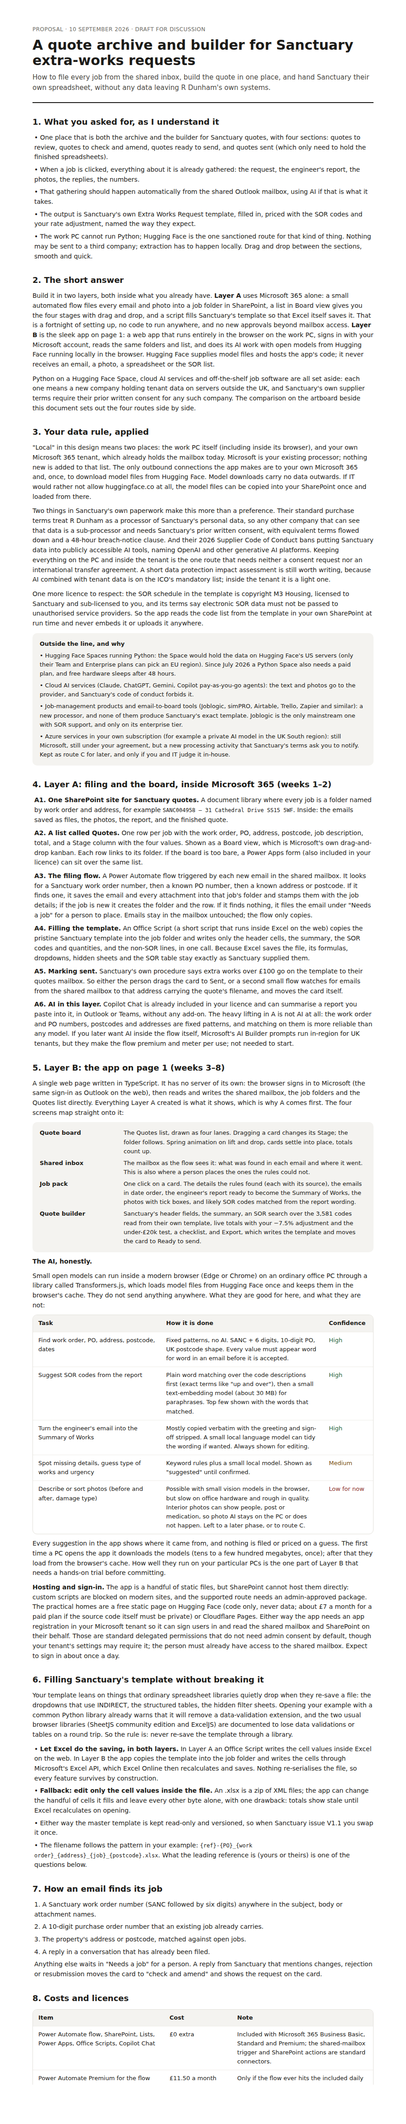
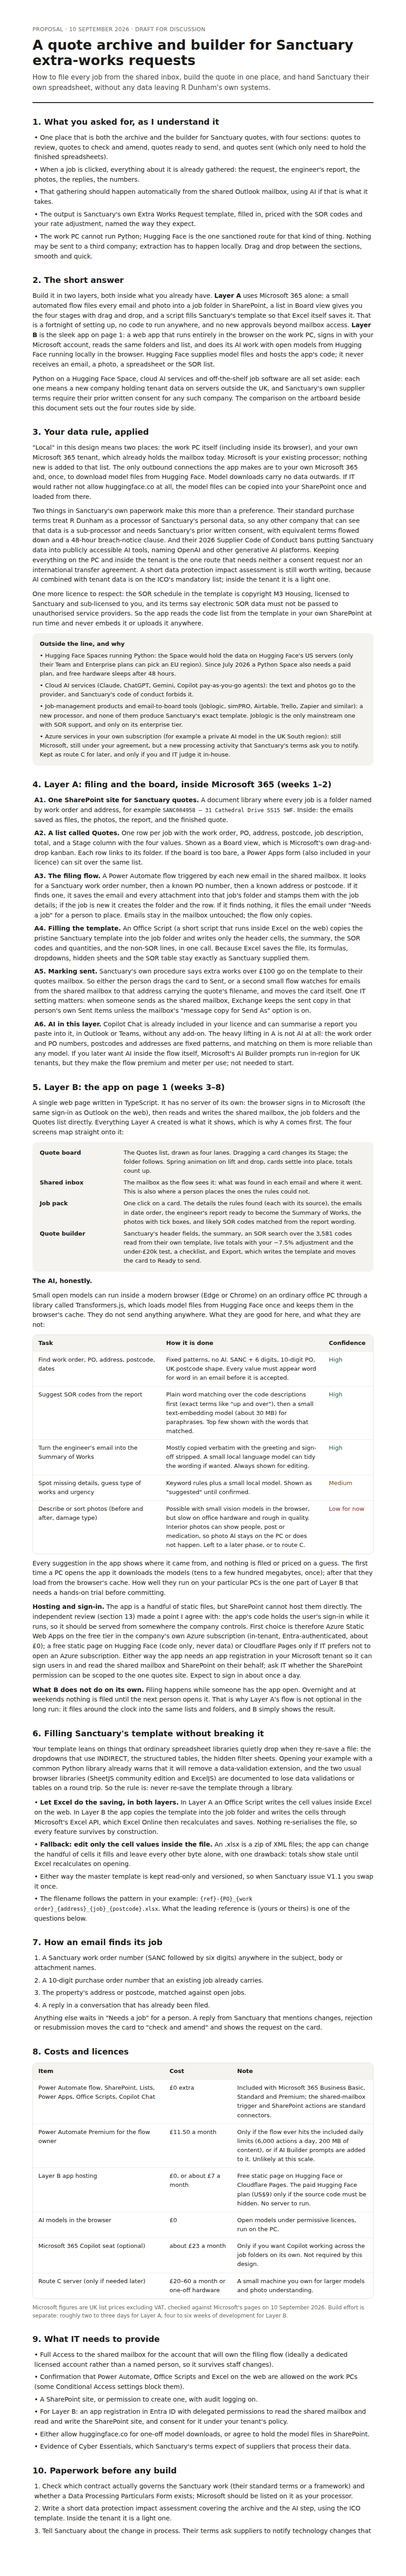
Fold the independent review into the design and docs
Read the sheet's own totals back after export and hold the card if they
differ from the app's; prefer hosting in the company's own Azure
subscription over a third-party static host; note that the app files only
while open and that the Layer A flow covers unattended hours; Send As copy
setting for sent detection; review summary in the proposal.

Claude-Session: https://claude.ai/code/session_01JC8NhicPqWfpPmi8umYne4

Changed region(s): [[0.0622, 0.0, 0.9022, 0.994]]

diff --git a/docs/design/Proposal.dc.html b/docs/design/Proposal.dc.html
@@ -13,7 +13,7 @@
     a { color: #2f5d8a; } a:hover { color: #244a70; }
   </style>
 </helmet>
-<div style="width: 900px; min-height: 4700px; background: #ffffff; padding: 56px 72px 72px 72px; box-sizing: border-box; display: flex; flex-direction: column; gap: 28px; font-size: 14px; line-height: 1.55; color: #1c1b18;">
+<div style="width: 900px; min-height: 5700px; background: #ffffff; padding: 56px 72px 72px 72px; box-sizing: border-box; display: flex; flex-direction: column; gap: 28px; font-size: 14px; line-height: 1.55; color: #1c1b18;">
 
   <div style="display: flex; flex-direction: column; gap: 8px; padding-bottom: 20px; border-bottom: 2px solid #1c1b18;">
     <span style="font-size: 12px; color: #6b6963; letter-spacing: 0.04em; text-transform: uppercase;">Proposal · 10 September 2026 · draft for discussion</span>
@@ -63,7 +63,7 @@
       <span><span style="font-weight: 600;">A2. A list called Quotes.</span> One row per job with the work order, PO, address, postcode, job description, total, and a Stage column with the four values. Shown as a Board view, which is Microsoft's own drag-and-drop kanban. Each row links to its folder. If the board is too bare, a Power Apps form (also included in your licence) can sit over the same list.</span>
       <span><span style="font-weight: 600;">A3. The filing flow.</span> A Power Automate flow triggered by each new email in the shared mailbox. It looks for a Sanctuary work order number, then a known PO number, then a known address or postcode. If it finds one, it saves the email and every attachment into that job's folder and stamps them with the job details; if the job is new it creates the folder and the row. If it finds nothing, it files the email under "Needs a job" for a person to place. Emails stay in the mailbox untouched; the flow only copies.</span>
       <span><span style="font-weight: 600;">A4. Filling the template.</span> An Office Script (a short script that runs inside Excel on the web) copies the pristine Sanctuary template into the job folder and writes only the header cells, the summary, the SOR codes and quantities, and the non-SOR lines, in one call. Because Excel saves the file, its formulas, dropdowns, hidden sheets and the SOR table stay exactly as Sanctuary supplied them.</span>
-      <span><span style="font-weight: 600;">A5. Marking sent.</span> Sanctuary's own procedure says extra works over £100 go on the template to their quotes mailbox. So either the person drags the card to Sent, or a second small flow watches for emails from the shared mailbox to that address carrying the quote's filename, and moves the card itself.</span>
+      <span><span style="font-weight: 600;">A5. Marking sent.</span> Sanctuary's own procedure says extra works over £100 go on the template to their quotes mailbox. So either the person drags the card to Sent, or a second small flow watches for emails from the shared mailbox to that address carrying the quote's filename, and moves the card itself. One IT setting matters: when someone sends as the shared mailbox, Exchange keeps the sent copy in that person's own Sent Items unless the mailbox's "message copy for Send As" option is on.</span>
       <span><span style="font-weight: 600;">A6. AI in this layer.</span> Copilot Chat is already included in your licence and can summarise a report you paste into it, in Outlook or Teams, without any add-on. The heavy lifting in A is not AI at all: the work order and PO numbers, postcodes and addresses are fixed patterns, and matching on them is more reliable than any model. If you later want AI inside the flow itself, Microsoft's AI Builder prompts run in-region for UK tenants, but they make the flow premium and meter per use; not needed to start.</span>
     </div>
   </div>
@@ -89,7 +89,8 @@
       <span style="padding: 8px 12px; border-top: 1px solid #efede8;">Describe or sort photos (before and after, damage type)</span><span style="padding: 8px 12px; border-top: 1px solid #efede8;">Possible with small vision models in the browser, but slow on office hardware and rough in quality. Interior photos can show people, post or medication, so photo AI stays on the PC or does not happen. Left to a later phase, or to route C.</span><span style="padding: 8px 12px; border-top: 1px solid #efede8; color: #8a2f2a; font-weight: 500;">Low for now</span>
     </div>
     <span>Every suggestion in the app shows where it came from, and nothing is filed or priced on a guess. The first time a PC opens the app it downloads the models (tens to a few hundred megabytes, once); after that they load from the browser's cache. How well they run on your particular PCs is the one part of Layer B that needs a hands-on trial before committing.</span>
-    <span><span style="font-weight: 600;">Hosting and sign-in.</span> The app is a handful of static files, but SharePoint cannot host them directly: custom scripts are blocked on modern sites, and the supported route needs an admin-approved package. The practical homes are a free static page on Hugging Face (code only, never data; about £7 a month for a paid plan if the source code itself must be private) or Cloudflare Pages. Either way the app needs an app registration in your Microsoft tenant so it can sign users in and read the shared mailbox and SharePoint on their behalf. Those are standard delegated permissions that do not need admin consent by default, though your tenant's settings may require it; the person must already have access to the shared mailbox. Expect to sign in about once a day.</span>
+    <span><span style="font-weight: 600;">Hosting and sign-in.</span> The app is a handful of static files, but SharePoint cannot host them directly. The independent review (section 13) made a point I agree with: the app's code holds the user's sign-in while it runs, so it should be served from somewhere the company controls. First choice is therefore Azure Static Web Apps on the free tier in the company's own Azure subscription (in-tenant, Entra-authenticated, about £0); a free static page on Hugging Face (code only, never data) or Cloudflare Pages only if IT prefers not to open an Azure subscription. Either way the app needs an app registration in your Microsoft tenant so it can sign users in and read the shared mailbox and SharePoint on their behalf; ask IT whether the SharePoint permission can be scoped to the one quotes site. Expect to sign in about once a day.</span>
+    <span><span style="font-weight: 600;">What B does not do on its own.</span> Filing happens while someone has the app open. Overnight and at weekends nothing is filed until the next person opens it. That is why Layer A's flow is not optional in the long run: it files around the clock into the same lists and folders, and B simply shows the result.</span>
   </div>
 
   <!-- 6 -->
@@ -163,7 +164,7 @@
       <span>1. Is Layer A alone enough for now, with B to follow, or should both be planned together from the start?</span>
       <span>2. Does the automatic filing copy every email in the shared mailbox, or only ones that look like Sanctuary jobs?</span>
       <span>3. Should "Sent" be set by dragging the card, or detected from emails to Sanctuary's quotes mailbox?</span>
-      <span>4. Where should the app's code live: a free public Hugging Face page (code only), a private one on the paid plan, or Cloudflare Pages?</span>
+      <span>4. Where should the app's code live: the company's own Azure subscription (recommended by the review), a free public Hugging Face page (code only), or Cloudflare Pages? Does the company have, or want, an Azure subscription?</span>
       <span>5. Do services in your own Azure subscription count as in-house? This only matters if route C is ever wanted.</span>
       <span>6. Who checks a quote before it goes out, and should the app insist on a second person?</span>
     </div>
@@ -182,15 +183,29 @@
     </div>
   </div>
 
-  <!-- 13 -->
+  <!-- 13 review -->
+  <div style="display: flex; flex-direction: column; gap: 10px;">
+    <span style="font-size: 18px; font-weight: 600;">13. Independent review of the routes</span>
+    <span>Three reviewers with different briefs (an IT and data-protection lead, the person who would use it daily, and a solutions architect) scored the four routes against the no-third-party rule. All three ranked the Microsoft-only route first (57 to 60 out of 70) and the browser-only route lowest (43 to 44), with the own-server hybrid and a Hugging Face-hosted variant in between. Their reasons, and what changed because of them:</span>
+    <div style="display: flex; flex-direction: column; gap: 6px; padding-left: 4px;">
+      <span>• <span style="font-weight: 600;">No background process in the browser app.</span> Emails are only filed while someone has it open. Accepted: Layer A's flow is the 24-hour filer and the app shows its results; both write to the same lists.</span>
+      <span>• <span style="font-weight: 600;">Code served from a third party while it holds the user's sign-in.</span> Accepted: host the app in the company's own Azure subscription first, keep Hugging Face as the fallback, scope the SharePoint permission to the one site.</span>
+      <span>• <span style="font-weight: 600;">Never send a broken spreadsheet.</span> After the template is filled, read the sheet's own totals back and refuse "ready to send" if they disagree with the app's. Built in.</span>
+      <span>• <span style="font-weight: 600;">Reports that arrive before the client's work order.</span> A provisional job keyed on the address, merged when the SANC email lands. Not built yet; on the list.</span>
+      <span>• <span style="font-weight: 600;">The SOR list's licence.</span> Confirm with Sanctuary or M3 before copying the codes into any list outside the template. The app reads them from the template at run time.</span>
+    </div>
+    <span>Of the fifteen factual claims the review set out to verify, four were checked before the account's usage limit stopped it: the shared-mailbox trigger is a standard connector (confirmed); filling the template inside Excel keeps its features (confirmed, with the note that Excel does the preserving); the priority flags are ordinary true/false cells (confirmed); and Office Scripts on a Business Basic licence should be checked with IT rather than assumed.</span>
+  </div>
+
+  <!-- 14 -->
   <div style="display: flex; flex-direction: column; gap: 10px; padding: 16px 18px; border-radius: 10px; border: 1px solid #e3c98f; background: #fdf3e0;">
-    <span style="font-size: 15px; font-weight: 600;">What was checked, and what was not</span>
+    <span style="font-size: 15px; font-weight: 600;">14. What was checked, and what was not</span>
     <span style="font-size: 13px;">Checked against official sources on 10 September 2026: the Microsoft 365 facts (connectors, licence limits, Office Scripts, shared-mailbox permissions, UK prices); Hugging Face plans, regions and hosting; the browser-app route (sign-in, mailbox and file access, the Excel API, which libraries break the template); Sanctuary's published purchase terms, supplier code of conduct and extra-works procedure, the M3 SOR licence terms, and ICO guidance on transfers and AI; and the off-the-shelf tools named in section 3. Not yet checked hands-on: how well small models run in the browser on your particular PCs, and the practicalities of route C. The ranking of the four routes is my judgement; the independent review I intended to run on it was cut short by the account's usage limit.</span>
   </div>
 
   <!-- 14 -->
   <div style="display: flex; flex-direction: column; gap: 10px;">
-    <span style="font-size: 18px; font-weight: 600;">13. Suggested next step</span>
+    <span style="font-size: 18px; font-weight: 600;">15. Suggested next step</span>
     <span>If the screens on page 1 match the vision, the natural next piece is a clickable prototype of the board and job pack, running on made-up data, so the drag and drop and the flow between screens can be felt before anything is connected to the mailbox. In parallel, IT can grant the mailbox access and the Layer A flow can be set up against the real inbox, which is useful on its own within a fortnight.</span>
   </div>
 

diff --git a/src/providers/graph.ts b/src/providers/graph.ts
@@ -9,6 +9,7 @@
 
 import { PublicClientApplication, InteractionRequiredAuthError, type AccountInfo } from '@azure/msal-browser';
 import { draftJobFromEmail } from '../lib/match';
+import { priceQuote } from '../lib/pricing';
 import { buildCellMap, buildQuoteFileName, shortRef, type CellWrite } from '../lib/template';
 import type { Email, Job, MatchRule, Photo, Quote, RateAdjustment, SorCode, Stage, User } from '../lib/types';
 import { applyEmailToJob, autoFile } from './autofile';
@@ -16,6 +17,8 @@ import type { AppConfig } from './config';
 import type { ChangeEvent, DataProvider, ExportResult, LiveStatus, ProviderSettings } from './types';
 
 const GRAPH = 'https://graph.microsoft.com/v1.0';
+// Delegated scopes. Sites.ReadWrite.All is broad; ask IT whether the tenant can grant the app
+// Sites.Selected for just the quotes site instead (then list/drive calls stay the same).
 const SCOPES = ['User.Read', 'Mail.Read.Shared', 'Sites.ReadWrite.All', 'Files.ReadWrite.All'];
 
 interface ListItem<F> {
@@ -562,7 +565,23 @@ export class GraphProvider implements DataProvider {
       const failed = r.responses.filter((x) => x.status >= 400);
       if (failed.length) throw new Error(`Some cells could not be written: ${JSON.stringify(failed.slice(0, 3))}`);
     }
+    // 3. Read the sheet's own totals back and refuse to call it ready if they disagree with ours.
+    const readBack = async (sheet: string, address: string) => {
+      const r = await this.graph<{ values: (number | string | null)[][] }>(
+        `/drives/${this.cfg.driveId}/items/${item.id}/workbook/worksheets('${sheet}')/range(address='${address}')?$select=values`,
+        {},
+        { 'workbook-session-id': sid },
+      );
+      return Number(r.values?.[0]?.[0] ?? NaN);
+    };
+    const sheetTotals = { main: await readBack('Main Sheet', 'AV65'), continuation: await readBack('Continuation Sheet', 'AV55'), nonSor: await readBack('Non SOR Works', 'AV55'), total: await readBack('Main Sheet', 'BN15') };
     await this.graph(`/drives/${this.cfg.driveId}/items/${item.id}/workbook/closeSession`, { method: 'POST' }, { 'workbook-session-id': sid });
+    const ours = priceQuote(q.sorLines, q.nonSorLines, new Map((await this.getSorCodes()).map((c) => [c.code, c])), await this.getRates(), q.contractor);
+    const differs = Math.abs(sheetTotals.total - ours.total) > 0.011;
+    if (differs) {
+      await this.updateJob({ ...job, quoteFileName: fileName, flag: { kind: 'internal-check', text: `Sheet total ${sheetTotals.total.toFixed(2)} differs from the app's ${ours.total.toFixed(2)}. Check the workbook before sending.` } });
+      return { fileName, webUrl: item.webUrl, writes, sheetTotals, mismatch: true };
+    }
 
     await this.updateJob({
       ...job,
@@ -571,7 +590,7 @@ export class GraphProvider implements DataProvider {
       stage: job.stage === 'review' || job.stage === 'amend' ? 'ready' : job.stage,
       flag: { kind: 'checked', text: 'Exported, awaiting a second check' },
     });
-    return { fileName, webUrl: item.webUrl, writes };
+    return { fileName, webUrl: item.webUrl, writes, sheetTotals, mismatch: false };
   }
 
   /** The SOR list, read from the client's own template inside the tenant. Never stored outside it. */

diff --git a/src/ui/Setup.tsx b/src/ui/Setup.tsx
@@ -60,6 +60,7 @@ export function Setup({ provider, jobs, emails, sor, rates, onReset }: Props) {
                 <li>The board is a SharePoint list. Every colleague sees the same list; a drag on one screen shows on the others within seconds.</li>
                 <li>The SOR code list and rate table are read from the client's template in that library, never copied out.</li>
                 <li>Matching, searching and pricing run in this browser. No AI service, no third-party server, nothing sent outside your tenant.</li>
+                <li>Filing happens while someone has the app open. For overnight and weekend filing, the companion Power Automate flow (see docs) writes to the same lists and folders.</li>
               </ul>
             </div>
           </div>
@@ -67,7 +68,7 @@ export function Setup({ provider, jobs, emails, sor, rates, onReset }: Props) {
             <div className="panel">
               <h3>Connecting to Microsoft 365</h3>
               <ol style={{ margin: 0, paddingLeft: 18, fontSize: 13, color: 'var(--text-2)', lineHeight: 1.6 }}>
-                <li>IT registers the app in Entra ID (single tenant, single-page app, redirect to where this page is hosted).</li>
+                <li>IT registers the app in Entra ID (single tenant, single-page app, redirect to where this page is hosted). Host it inside your own Azure subscription (Static Web Apps) where possible, so the code that holds your sign-in never comes from a third party.</li>
                 <li>A SharePoint site with a Quotes list, an Inbox filing list, and a library holding job folders and the pristine template.</li>
                 <li>Full Access to the shared mailbox for the people who will use the app.</li>
                 <li>A <span className="mono">config.json</span> next to the app with the ids above.</li>

diff --git a/src/ui/QuoteBuilder.tsx b/src/ui/QuoteBuilder.tsx
@@ -302,7 +302,16 @@ export function QuoteBuilder({ job, sor, rates, settings, mode, onBack, onSave, 
                 <Icon.sheet /> Open in Excel
               </a>
             )}
-            {mode === 'demo' && <div className="note">Demo mode has no template to write into. In Microsoft 365 mode these {result.writes.length} cells are written into a fresh copy of the client's template in the job folder.</div>}
+            {mode === 'demo' && <div className="note">Demo mode has no template to write into. In Microsoft 365 mode these {result.writes.length} cells are written into a fresh copy of the client's template in the job folder, and the sheet's own totals are read back and compared with the app's before the card moves on.</div>}
+            {result.sheetTotals && (
+              <div className={`note ${result.mismatch ? 'danger' : ''}`}>
+                {result.mismatch ? <Icon.info size={14} /> : <Icon.check size={14} />}
+                <span>
+                  The saved sheet says {gbp(result.sheetTotals.total)} (main {gbp(result.sheetTotals.main)}, continuation {gbp(result.sheetTotals.continuation)}, non-SOR {gbp(result.sheetTotals.nonSor)}); the app says {gbp(totals.total)}.
+                  {result.mismatch ? ' They differ, so the card has not moved to Ready to send. Open the workbook and check.' : ' They agree.'}
+                </span>
+              </div>
+            )}
             <div className="kv">
               {result.writes.map((w, i) => (
                 <div key={i} style={{ display: 'contents' }}>

diff --git a/src/providers/types.ts b/src/providers/types.ts
@@ -13,6 +13,9 @@ export interface ExportResult {
   /** Web link to the saved workbook in the job folder (Microsoft 365 mode). */
   webUrl?: string;
   writes: CellWrite[];
+  /** Totals read back from the saved workbook (Microsoft 365 mode), so the sheet's own maths is checked against the app's. */
+  sheetTotals?: { main: number; continuation: number; nonSor: number; total: number };
+  mismatch?: boolean;
 }
 
 /**

diff --git a/docs/proposal.md b/docs/proposal.md
@@ -43,7 +43,7 @@ Outside the line, and why:
 2. **A list called Quotes.** One row per job with the work order, PO, address, postcode, job description, total, and a Stage column with the four values. Shown as a Board view, which is Microsoft's own drag-and-drop kanban. Each row links to its folder. If the board is too bare, a Power Apps form (also included in the licence) can sit over the same list.
 3. **The filing flow.** A Power Automate flow triggered by each new email in the shared mailbox. It looks for a Sanctuary work order number, then a known PO number, then a known address or postcode. If it finds one, it saves the email and every attachment into that job's folder and stamps them with the job details; if the job is new it creates the folder and the row. If it finds nothing, it files the email under "Needs a job" for a person to place. Emails stay in the mailbox untouched; the flow only copies.
 4. **Filling the template.** An Office Script (a short script that runs inside Excel on the web) copies the pristine Sanctuary template into the job folder and writes only the header cells, the summary, the SOR codes and quantities, and the non-SOR lines, in one call. Because Excel saves the file, its formulas, dropdowns, hidden sheets and the SOR table stay exactly as Sanctuary supplied them.
-5. **Marking sent.** Sanctuary's own procedure says extra works over £100 go on the template to their quotes mailbox. So either the person drags the card to Sent, or a second small flow watches for emails from the shared mailbox to that address carrying the quote's filename, and moves the card itself.
+5. **Marking sent.** Sanctuary's own procedure says extra works over £100 go on the template to their quotes mailbox. So either the person drags the card to Sent, or a second small flow watches for emails from the shared mailbox to that address carrying the quote's filename, and moves the card itself. One IT setting matters here: when someone sends *as* the shared mailbox, Exchange keeps the sent copy in that person's own Sent Items unless the mailbox has the "message copy for Send As" option switched on.
 6. **AI in this layer.** Copilot Chat is already included in the licence and can summarise a report pasted into it, in Outlook or Teams, without any add-on. The heavy lifting in A is not AI at all: the work order and PO numbers, postcodes and addresses are fixed patterns, and matching on them is more reliable than any model. If AI inside the flow itself is wanted later, Microsoft's AI Builder prompts run in-region for UK tenants, but they make the flow premium and meter per use; not needed to start.
 
 ## 5. Layer B: the app in the drafts (weeks 3 to 8)
@@ -71,7 +71,9 @@ Small open models can run inside a modern browser (Edge or Chrome) on an ordinar
 
 Every suggestion in the app shows where it came from, and nothing is filed or priced on a guess. The first time a PC opens the app it downloads the models (tens to a few hundred megabytes, once); after that they load from the browser's cache. How well they run on the company's particular PCs is the one part of Layer B that needs a hands-on trial before committing.
 
-**Hosting and sign-in.** The app is a handful of static files, but SharePoint cannot host them directly: custom scripts are blocked on modern sites, and the supported route needs an admin-approved package. The practical homes are a free static page on Hugging Face (code only, never data; about £7 a month for a paid plan if the source code itself must be private) or Cloudflare Pages. Either way the app needs an app registration in the Microsoft tenant so it can sign users in and read the shared mailbox and SharePoint on their behalf. Those are standard delegated permissions that do not need admin consent by default, though tenant settings may require it; the person must already have access to the shared mailbox. Expect to sign in about once a day.
+**Hosting and sign-in.** The app is a handful of static files, but SharePoint cannot host them directly: custom scripts are blocked on modern sites, and the supported route needs an admin-approved package. The independent review (section 13) made a point I agree with: the app's code holds the user's sign-in while it runs, so it should be served from somewhere the company controls. The first choice is therefore **Azure Static Web Apps** on the free tier in the company's own Azure subscription (in-tenant, Entra-authenticated, about £0); a free static page on Hugging Face (code only, never data) or Cloudflare Pages only if IT prefers not to open an Azure subscription. Either way the app needs an app registration in the Microsoft tenant so it can sign users in and read the shared mailbox and SharePoint on their behalf. Those are standard delegated permissions that do not need admin consent by default, though tenant settings may require it; ask IT whether the SharePoint permission can be scoped to the one quotes site. The person must already have access to the shared mailbox. Expect to sign in about once a day.
+
+**What B does not do on its own.** Filing happens while someone has the app open. Overnight, at weekends and when nobody is in, nothing is filed until the next person opens it. That is why Layer A's flow is not optional in the long run: it files around the clock into the same lists and folders, and B simply shows the result.
 
 ## 6. Filling Sanctuary's template without breaking it
 
@@ -126,7 +128,7 @@ Microsoft figures are UK list prices excluding VAT, checked against Microsoft's 
 1. Is Layer A alone enough for now, with B to follow, or should both be planned together from the start?
 2. Does the automatic filing copy every email in the shared mailbox, or only ones that look like Sanctuary jobs?
 3. Should "Sent" be set by dragging the card, or detected from emails to Sanctuary's quotes mailbox?
-4. Where should the app's code live: a free public Hugging Face page (code only), a private one on the paid plan, or Cloudflare Pages?
+4. Where should the app's code live: the company's own Azure subscription (recommended by the review), a free public Hugging Face page (code only), or Cloudflare Pages? Does the company have, or want, an Azure subscription?
 5. Do services in the company's own Azure subscription count as in-house? This only matters if route C is ever wanted.
 6. Who checks a quote before it goes out, and should the app insist on a second person?
 
@@ -139,10 +141,23 @@ Microsoft figures are UK list prices excluding VAT, checked against Microsoft's 
 - Are there other clients with their own templates, or is Sanctuary the only one for now?
 - Does the company already hold Cyber Essentials?
 
-## 13. What was checked, and what was not
+## 13. Independent review of the routes
+
+Three reviewers with different briefs (an IT and data-protection lead, the person who would use it daily, and a solutions architect) scored the four routes against the no-third-party rule. All three ranked the Microsoft-only route first (57 to 60 out of 70) and the browser-only route lowest (43 to 44), with the own-server hybrid and a Hugging Face-hosted variant in between. Their reasons, and what changed because of them:
+
+- **No background process in the browser app.** Emails are only filed while someone has it open. Accepted: Layer A's flow is the 24-hour filer and the app shows its results; both write to the same lists, so nothing is filed twice.
+- **Code served from a third party while it holds the user's sign-in.** If the host or its account were compromised, swapped code could read the mailbox. Accepted: host the app in the company's own Azure subscription first (section 5), keep Hugging Face as the fallback, and ask IT to scope the SharePoint permission to the one site.
+- **Never send a broken spreadsheet.** Their best single safeguard: after the template is filled, read the sheet's own totals back and refuse to move the card to "ready to send" if they disagree with the app's. Built in: the export now does exactly this.
+- **Reports that arrive before the client's work order.** Suggested: a provisional job keyed on the address, merged when the SANC email lands. Not built yet; on the list.
+- **The SOR list's licence.** Confirm with Sanctuary or M3 before copying the 3,581 codes into any list or index outside the template. The app reads them from the template at run time, which is the conservative position.
+- **"Sent" detection.** Depends on the Send As copy setting above.
+
+Of the fifteen factual claims the review set out to verify, four were checked before the account's usage limit stopped it: the shared-mailbox trigger is a standard connector (confirmed); filling the template inside Excel keeps its features (confirmed, with the note that Excel does the preserving, not the script); the priority flags are ordinary true/false cells, so no special handling is needed (confirmed); and Office Scripts on a Business Basic licence should be checked with IT rather than assumed.
+
+## 14. What was checked, and what was not
 
 Checked against official sources on 10 September 2026: the Microsoft 365 facts (connectors, licence limits, Office Scripts, shared-mailbox permissions, UK prices); Hugging Face plans, regions and hosting; the browser-app route (sign-in, mailbox and file access, the Excel API, which libraries break the template); Sanctuary's published purchase terms, supplier code of conduct and extra-works procedure, the M3 SOR licence terms, and ICO guidance on transfers and AI; and the off-the-shelf tools named in section 3. Not yet checked hands-on: how well small models run in the browser on the company's particular PCs, and the practicalities of route C. The ranking of the four routes is professional judgement; the independent review intended to run on it was cut short by the account's usage limit.
 
-## 14. Suggested next step
+## 15. Suggested next step
 
 If the drafts match the vision, the natural next piece is a clickable prototype of the board and job pack, running on made-up data, so the drag and drop and the flow between screens can be felt before anything is connected to the mailbox. In parallel, IT can grant the mailbox access and the Layer A flow can be set up against the real inbox, which is useful on its own within a fortnight.

diff --git a/docs/m365-setup.md b/docs/m365-setup.md
@@ -6,7 +6,7 @@ Everything the app touches lives in your own tenant. This page lists what IT nee
 
 - New registration, **single tenant** ("Accounts in this organizational directory only").
 - Platform: **Single-page application**. Redirect URI: the https address where the app is hosted (for example `https://<name>.hf.space/` or your Cloudflare Pages URL). No client secret.
-- API permissions (Microsoft Graph, **delegated**): `User.Read`, `Mail.Read.Shared`, `Sites.ReadWrite.All`, `Files.ReadWrite.All`. Grant admin consent if the tenant's user-consent policy requires it.
+- API permissions (Microsoft Graph, **delegated**): `User.Read`, `Mail.Read.Shared`, `Sites.ReadWrite.All`, `Files.ReadWrite.All`. Grant admin consent if the tenant's user-consent policy requires it. If the tenant supports it, ask for `Sites.Selected` scoped to the quotes site instead of `Sites.ReadWrite.All`.
 - Optional, to send finished quotes from the app later: `Mail.Send.Shared`.
 - Note the **Application (client) ID** and **Directory (tenant) ID** for `config.json`.
 
@@ -15,6 +15,8 @@ Users sign in about once a day (single-page-app refresh tokens last 24 hours).
 ## 2. Shared mailbox
 
 Each person who will use the app needs **Full Access** to the shared mailbox in Exchange. The app reads the mailbox's Inbox through Graph as that person; it never signs in as the mailbox and never moves or deletes anything in it.
+
+If quotes are sent *as* the shared mailbox and you want "Sent" detected automatically later, switch on the mailbox's "message copy for Send As" setting (`Set-Mailbox -MessageCopyForSentAsEnabled $true`), otherwise the sent copy only lands in the sender's own Sent Items.
 
 ## 3. SharePoint site
 
@@ -74,10 +76,11 @@ Copy `public/config.example.json` to `config.json` next to the built `index.html
 
 ## 5. Hosting
 
-The app is static files (`npm run build` → `dist/`). SharePoint cannot serve them as a page, so use one of:
+The app is static files (`npm run build` → `dist/`). SharePoint cannot serve them as a page, so use one of, in order of preference:
 
-- **Hugging Face static Space** (free): `sdk: static`, `app_build_command: npm ci && npm run build`, `app_file: dist/index.html`. Public visibility shows the source code (no data, no secrets); Protected visibility hides it on a paid plan. Only the app's code is on Hugging Face. Emails, photos and quotes never go there.
-- **Cloudflare Pages** or **Azure Static Web Apps**: also fine; set the redirect URI to match.
+- **Azure Static Web Apps, free tier, in the company's own Azure subscription.** In-tenant and Entra-authenticated, so the code that holds the user's sign-in is never served by a third party. About £0.
+- **Hugging Face static Space** (free): `sdk: static`, `app_build_command: npm ci && npm run build`, `app_file: dist/index.html`. Public visibility shows the source code (no data, no secrets); Protected visibility hides it on a paid plan. Only the app's code is on Hugging Face; emails, photos and quotes never go there. Use this only if an Azure subscription is not an option.
+- **Cloudflare Pages**: also fine; set the redirect URI to match.
 
 Corporate web filtering must allow `login.microsoftonline.com`, `graph.microsoft.com` and the host you choose. If in-browser AI models are added later, `huggingface.co` and its download hosts (`*.hf.co`) are needed for the one-off model download.
 
@@ -87,6 +90,7 @@ The app files emails while someone has it open. For filing overnight and at week
 
 ## 7. Before go-live
 
+- After the first real export, open the workbook: the app reads the sheet's own totals back and compares them with its own, and will not move the card to "Ready to send" if they differ.
 - Data protection impact assessment (light, in-tenant) and a note to the client about the change in process, per `docs/proposal.md` section 10.
 - Retention set on the library.
 - Audit logging on the site.
